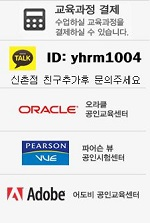
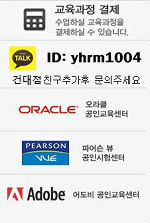
게시판 글깨짐 수정 이미지 신촌점->건대점 문구수정

diff --git a/Project/src/com/hb/board/controller/job/JobafterAddController.java b/Project/src/com/hb/board/controller/job/JobafterAddController.java
@@ -13,9 +13,12 @@ import com.hb.model.jobafter.jobafterDao;
 public class JobafterAddController extends HttpServlet {
 
 	protected void doGet(HttpServletRequest request, HttpServletResponse response) throws ServletException, IOException {
-		String title = new String(request.getParameter("title").getBytes("8859_1"), "UTF-8");
-		String name = new String(request.getParameter("name").getBytes("8859_1"), "UTF-8");
-		String content = new String(request.getParameter("content").getBytes("8859_1"), "UTF-8");
+//		String title = new String(request.getParameter("title").getBytes("8859_1"), "UTF-8");
+//		String name = new String(request.getParameter("name").getBytes("8859_1"), "UTF-8");
+//		String content = new String(request.getParameter("content").getBytes("8859_1"), "UTF-8");
+		String title = request.getParameter("title");
+		String name = request.getParameter("name");
+		String content = request.getParameter("content");
 		
 		jobafterDao dao = new jobafterDao();
 		int result = dao.addOne(title, name, content);

diff --git a/Project/src/com/hb/controller/board/customercenter/AfterAddController.java b/Project/src/com/hb/controller/board/customercenter/AfterAddController.java
@@ -14,9 +14,12 @@ public class AfterAddController extends HttpServlet {
 
 	protected void doGet(HttpServletRequest request, HttpServletResponse response) throws ServletException, IOException {
 		
-		String aftTitle = new String(request.getParameter("title").getBytes("8859_1"), "UTF-8");
-		String aftName = new String(request.getParameter("name").getBytes("8859_1"), "UTF-8");
-		String aftContent = new String(request.getParameter("content").getBytes("8859_1"), "UTF-8");
+//		String aftTitle = new String(request.getParameter("title").getBytes("8859_1"), "UTF-8");
+//		String aftName = new String(request.getParameter("name").getBytes("8859_1"), "UTF-8");
+//		String aftContent = new String(request.getParameter("content").getBytes("8859_1"), "UTF-8");
+		String aftTitle = request.getParameter("title");
+		String aftName = request.getParameter("name");
+		String aftContent = request.getParameter("content");
 		
 		afterdao dao = new afterdao();
 		int result = dao.addOne(aftTitle,aftName,aftContent);

diff --git a/Project/src/com/hb/board/controller/job/JobAddController.java b/Project/src/com/hb/board/controller/job/JobAddController.java
@@ -13,9 +13,12 @@ import com.hb.model.job.jobDao;
 public class JobAddController extends HttpServlet {
 
 	protected void doGet(HttpServletRequest request, HttpServletResponse response) throws ServletException, IOException {
-		String Title = new String(request.getParameter("title").getBytes("8859_1"), "UTF-8");
-		String Name = new String(request.getParameter("name").getBytes("8859_1"), "UTF-8");
-		String Content = new String(request.getParameter("content").getBytes("8859_1"), "UTF-8");
+//		String Title = new String(request.getParameter("title").getBytes("8859_1"), "UTF-8");
+//		String Name = new String(request.getParameter("name").getBytes("8859_1"), "UTF-8");
+//		String Content = new String(request.getParameter("content").getBytes("8859_1"), "UTF-8");
+		String Title = request.getParameter("title");
+		String Name = request.getParameter("name");
+		String Content = request.getParameter("content");
 		
 		jobDao dao = new jobDao();
 		int result = dao.addOne(Title, Name, Content);

diff --git a/Project/src/com/hb/controller/board/customercenter/NoticeAddController.java b/Project/src/com/hb/controller/board/customercenter/NoticeAddController.java
@@ -14,9 +14,12 @@ public class NoticeAddController extends HttpServlet {
 
 	protected void doGet(HttpServletRequest request, HttpServletResponse response) throws ServletException, IOException {
 		
-		String title = new String(request.getParameter("title").getBytes("8859_1"), "UTF-8");
-		String name = new String(request.getParameter("name").getBytes("8859_1"), "UTF-8");
-		String content = new String(request.getParameter("content").getBytes("8859_1"), "UTF-8");
+//		String title = new String(request.getParameter("title").getBytes("8859_1"), "UTF-8");
+//		String name = new String(request.getParameter("name").getBytes("8859_1"), "UTF-8");
+//		String content = new String(request.getParameter("content").getBytes("8859_1"), "UTF-8");
+		String title = request.getParameter("title");
+		String name = request.getParameter("name");
+		String content = request.getParameter("content");
 		
 		noticeDao dao = new noticeDao();
 		int result = dao.addOne(title,name,content);

diff --git a/Project/src/com/hb/controller/board/customercenter/QnaAddController.java b/Project/src/com/hb/controller/board/customercenter/QnaAddController.java
@@ -15,9 +15,12 @@ public class QnaAddController extends HttpServlet {
 
 	protected void doGet(HttpServletRequest request, HttpServletResponse response) throws ServletException, IOException {
 		
-		String title = new String(request.getParameter("title").getBytes("8859_1"), "UTF-8");
-		String name = new String(request.getParameter("name").getBytes("8859_1"), "UTF-8");
-		String content = new String(request.getParameter("content").getBytes("8859_1"), "UTF-8");
+//		String title = new String(request.getParameter("title").getBytes("8859_1"), "UTF-8");
+//		String name = new String(request.getParameter("name").getBytes("8859_1"), "UTF-8");
+//		String content = new String(request.getParameter("content").getBytes("8859_1"), "UTF-8");
+		String title = request.getParameter("title");
+		String name = request.getParameter("name");
+		String content = request.getParameter("content");
 		
 		qnadao dao = new qnadao();
 		int result = dao.addOne(title,name,content);

diff --git a/Project/src/com/hb/controller/board/customercenter/NoticeEditController.java b/Project/src/com/hb/controller/board/customercenter/NoticeEditController.java
@@ -16,12 +16,11 @@ public class NoticeEditController extends HttpServlet {
 		
 		int notNo = Integer.parseInt(request.getParameter("notNo"));
 		
-		String title = new String(request.getParameter("title").getBytes("8859_1"), "UTF-8");
-		String content = new String(request.getParameter("content").getBytes("8859_1"), "UTF-8");
-		
-//		String title = request.getParameter("title");
-//		String content = request.getParameter("content");
-//		System.out.println(notNo+"/"+title+"/"+content);
+//		String title = new String(request.getParameter("title").getBytes("8859_1"), "UTF-8");
+//		String content = new String(request.getParameter("content").getBytes("8859_1"), "UTF-8");
+		String title = request.getParameter("title");
+		String content = request.getParameter("content");
+		System.out.println(notNo+"/"+title+"/"+content);
 		
 		noticeDao dao = new noticeDao();
 		int result = dao.updateOne(notNo,title,content);

diff --git a/Project/src/com/hb/board/controller/job/JobafterEditController.java b/Project/src/com/hb/board/controller/job/JobafterEditController.java
@@ -14,9 +14,10 @@ public class JobafterEditController extends HttpServlet {
 
 	protected void doGet(HttpServletRequest request, HttpServletResponse response) throws ServletException, IOException {
 		int jafNo = Integer.parseInt(request.getParameter("jafNo"));
-		String jafTitle = new String(request.getParameter("title").getBytes("8859_1"), "UTF-8");
-		String jafContent = new String(request.getParameter("content").getBytes("8859_1"), "UTF-8");
-		
+//		String jafTitle = new String(request.getParameter("title").getBytes("8859_1"), "UTF-8");
+//		String jafContent = new String(request.getParameter("content").getBytes("8859_1"), "UTF-8");
+		String jafTitle = request.getParameter("title");
+		String jafContent = request.getParameter("content");
 		jobafterDao dao = new jobafterDao();
 		int result = dao.updateOne(jafNo, jafTitle, jafContent);
 		

diff --git a/Project/src/com/hb/controller/board/customercenter/AfterEditController.java b/Project/src/com/hb/controller/board/customercenter/AfterEditController.java
@@ -14,8 +14,10 @@ public class AfterEditController extends HttpServlet {
 
 	protected void doGet(HttpServletRequest request, HttpServletResponse response) throws ServletException, IOException {
 		int aftNo = Integer.parseInt(request.getParameter("aftNo"));
-		String aftTitle = new String(request.getParameter("title").getBytes("8859_1"), "UTF-8");
-		String aftContent = new String(request.getParameter("content").getBytes("8859_1"), "UTF-8");
+//		String aftTitle = new String(request.getParameter("title").getBytes("8859_1"), "UTF-8");
+//		String aftContent = new String(request.getParameter("content").getBytes("8859_1"), "UTF-8");
+		String aftTitle = request.getParameter("title");
+		String aftContent = request.getParameter("content");
 		
 		afterdao dao = new afterdao();
 		int result = dao.updateOne(aftNo, aftTitle, aftContent);

diff --git a/Project/src/com/hb/board/controller/job/JobEditController.java b/Project/src/com/hb/board/controller/job/JobEditController.java
@@ -14,8 +14,10 @@ public class JobEditController extends HttpServlet {
 
 	protected void doGet(HttpServletRequest request, HttpServletResponse response) throws ServletException, IOException {
 		int jobNo = Integer.parseInt(request.getParameter("jobNo"));
-		String jobTitle = new String(request.getParameter("title").getBytes("8859_1"), "UTF-8");
-		String jobContent = new String(request.getParameter("content").getBytes("8859_1"), "UTF-8");
+//		String jobTitle = new String(request.getParameter("title").getBytes("8859_1"), "UTF-8");
+//		String jobContent = new String(request.getParameter("content").getBytes("8859_1"), "UTF-8");
+		String jobTitle = request.getParameter("title");
+		String jobContent = request.getParameter("content");
 		
 		jobDao dao = new jobDao();
 		int result = dao.updateOne(jobNo, jobTitle, jobContent);

diff --git a/Project/src/com/hb/controller/board/customercenter/QnaEditController.java b/Project/src/com/hb/controller/board/customercenter/QnaEditController.java
@@ -15,8 +15,10 @@ public class QnaEditController extends HttpServlet {
 	protected void doGet(HttpServletRequest request, HttpServletResponse response) throws ServletException, IOException {
 		
 		int qnaNo = Integer.parseInt(request.getParameter("qnaNo"));
-		String qnaTitle = new String(request.getParameter("title").getBytes("8859_1"), "UTF-8");
-		String qnaContent = new String(request.getParameter("content").getBytes("8859_1"), "UTF-8");
+//		String qnaTitle = new String(request.getParameter("title").getBytes("8859_1"), "UTF-8");
+//		String qnaContent = new String(request.getParameter("content").getBytes("8859_1"), "UTF-8");
+		String qnaTitle = request.getParameter("title");
+		String qnaContent = request.getParameter("content");
 		
 		qnadao dao = new qnadao();
 		int result = dao.updateOne(qnaNo,qnaTitle,qnaContent);
